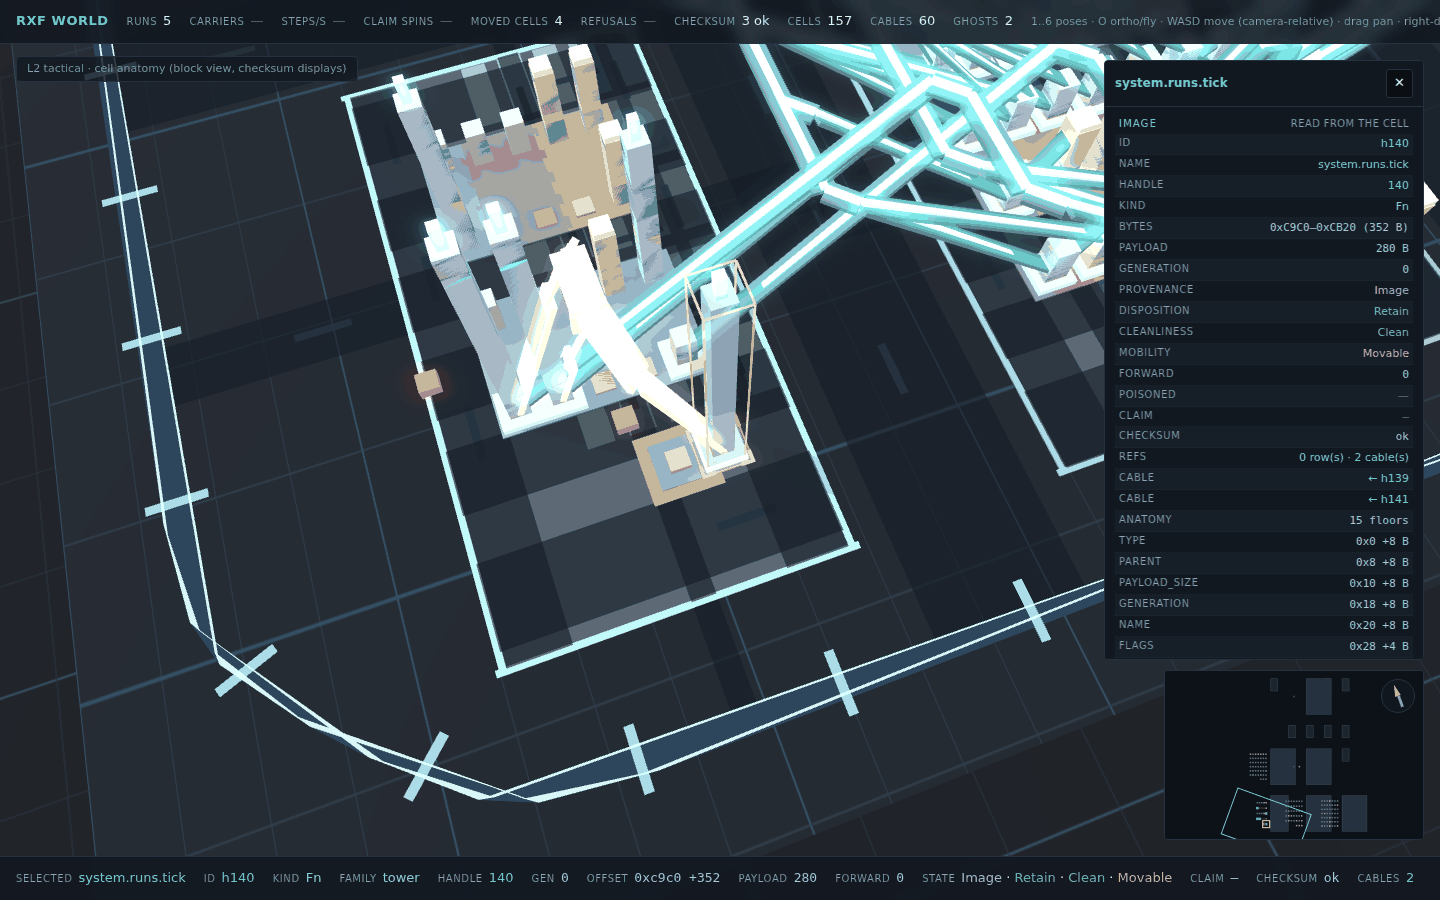
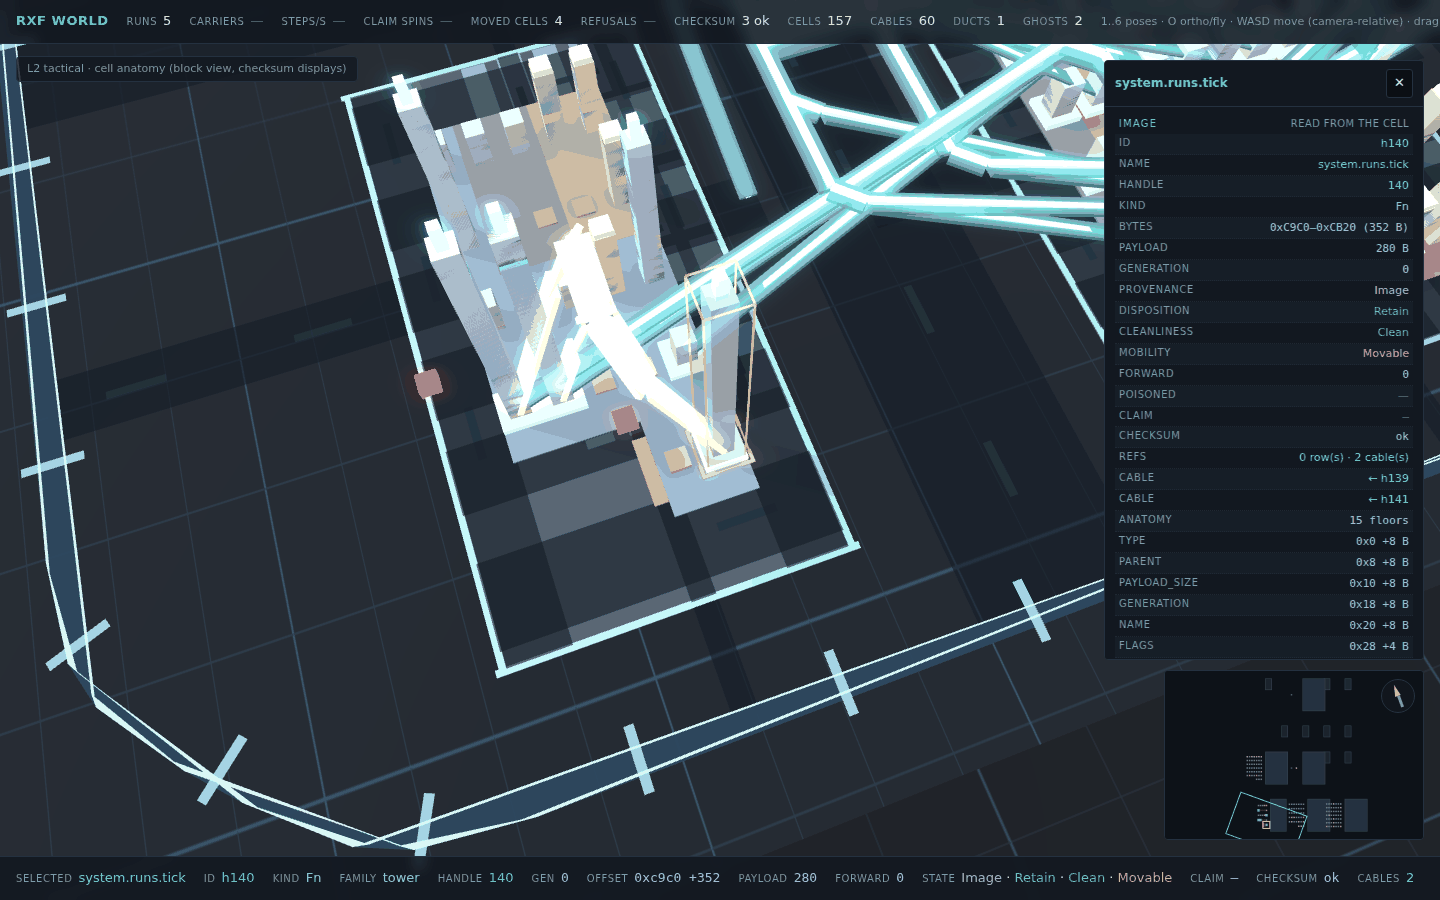
readme+docs/images: the world section on cable packages - the shots re-captured with the ducts
The hero and the street shots now show what rxf-world-3 draws: one duct per shared street
stretch (thicker the more it carries, a color stripe per member in that member's own paint),
the members shrunk to their last-mile stubs where the duct leaves them. Captured the same
way the shots always come: capture_shots.py, headless, palette-quantized, on the GPU raster.

diff --git a/README.md b/README.md
@@ -134,15 +134,18 @@ it.
 The world view draws the checked-in demo world over the same cells the inspector reads:
 cells are block-stack buildings, references are cables that fly on **module-depth sheets**
 (root 0, `a` 1, `a.b` 2, ... — one altitude per level, so a dense reference mesh reads as
-stacked layers instead of one flat grid), and the ready-ring is the boulevard where the run
-cells ride. The wiring carries one detail limit per view — the named skeleton wide, the named
+stacked layers instead of one flat grid), references that share a street stretch are packaged
+into **one duct** — drawn once, thicker the more it carries, one color stripe per member in
+that member's own fresh/ghost paint, while each member shrinks to its own last-mile stub
+where the duct leaves it (what a package carries it does not draw again) — and the ready-ring
+is the boulevard where the run cells ride. The wiring carries one detail limit per view — the named skeleton wide, the named
 backbone midway, every cable up close — and clicking a building lights its own cables up on
 their sheets. WASD moves camera-relative; the minimap is a real top-down projection of the
 same document.
 
-![The demo world from the north-east: the city diagonal, the ring, and the cables flying their module-depth sheets](docs/images/world-overview.png)
+![The demo world from the north-east: the city diagonal, the ring, the ducts on the shared street stretches, and the cables flying their module-depth sheets](docs/images/world-overview.png)
 
-![Street level: the wiring flies its sheets above the blocks while the paint stays flat on the ground](docs/images/world-streets.png)
+![Street level: one duct per shared stretch carries a stripe per member while the stubs climb to the blocks and the paint stays flat on the ground](docs/images/world-streets.png)
 
 ![The ring road's corner: clean chamfers, no spikes](docs/images/world-ring.png)
 
